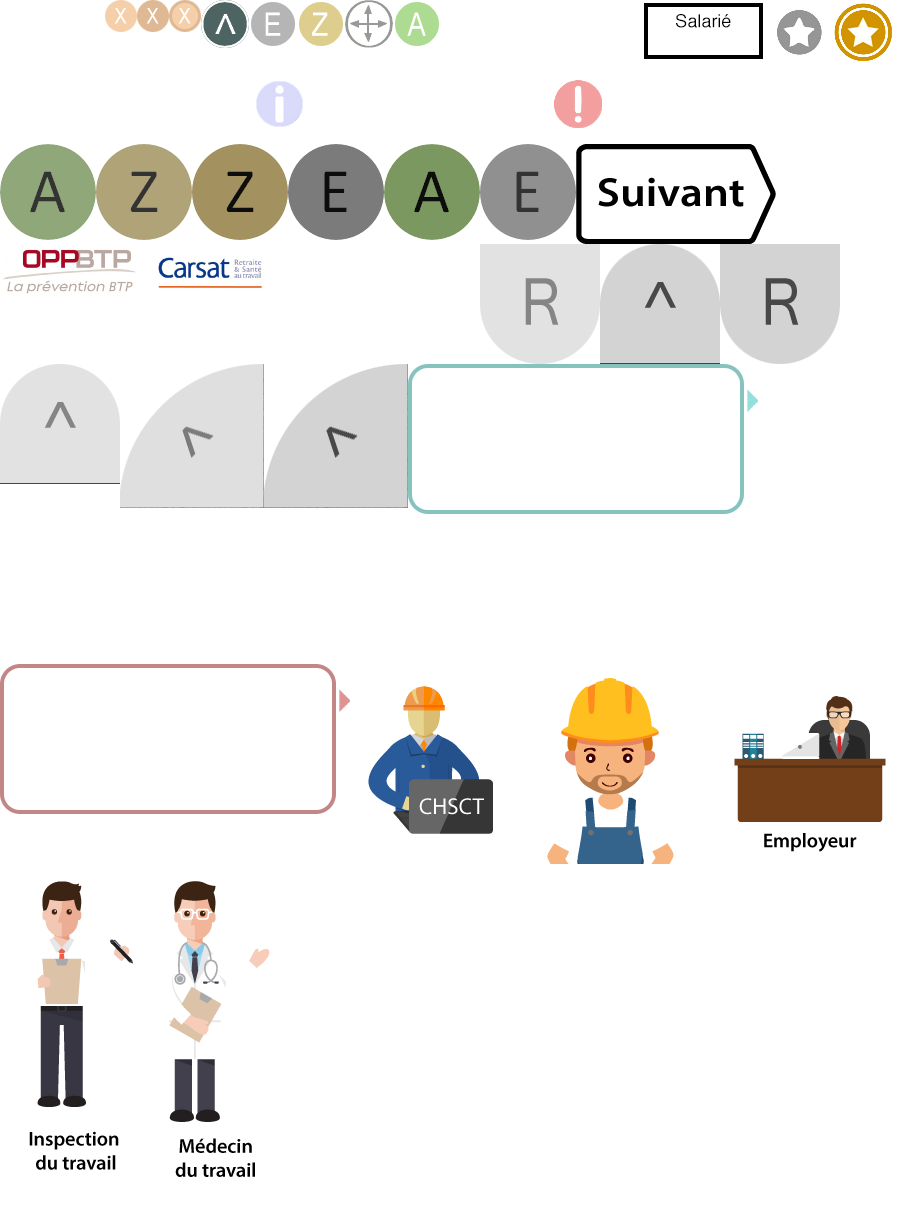
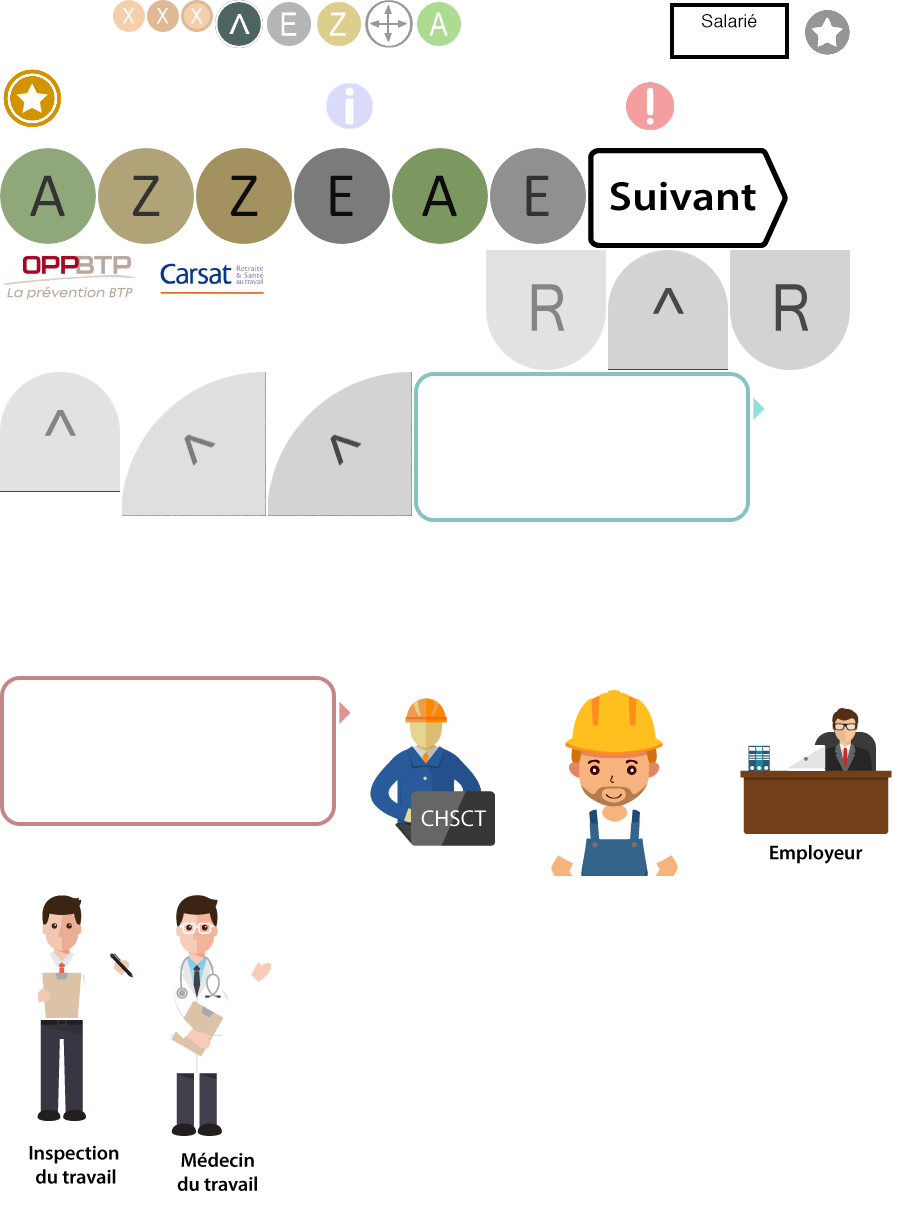
[fix:jeu9] text overlay on sprites fixed and proportional scale for sprites

diff --git a/src/games/9/components/game/objects/Response/ResponseFactory.js b/src/games/9/components/game/objects/Response/ResponseFactory.js
@@ -11,7 +11,6 @@ export default class ResponseFactory extends GameFactory {
 
     constructor(game, items) {
         super(game);
-        // this.game = game;
 
         let width = this.game.width;
         let height = this.game.height;
@@ -25,7 +24,7 @@ export default class ResponseFactory extends GameFactory {
         this.number = itemsNumber;
 
         let xValue = (width / itemsNumber)/2;
-        let y = 220;
+        let y = 250 * this.game.SCALE;
 
         for (let i = 0; i < itemsNumber; i++) {
             let x = i * (2 * xValue) + xValue;
@@ -33,7 +32,6 @@ export default class ResponseFactory extends GameFactory {
         }
 
         let count = 0;
-        // console.log("Factory:");
         for (let item in items) {
             this.add(
                 (new Response(
@@ -46,8 +44,6 @@ export default class ResponseFactory extends GameFactory {
             );
             count++;
         }
-        // console.log(this.children);
-
     }
 
     // destroy() {

diff --git a/src/games/9/components/game/objects/Player/Player.js b/src/games/9/components/game/objects/Player/Player.js
@@ -17,7 +17,8 @@ export default class Player extends BasicGameObject {
     checkOverlap(currentSprite, spriteToOverlap) {
         let boundsA = currentSprite.getBounds(),
             boundsB = spriteToOverlap.getBounds(),
-            overlapHeight = spriteToOverlap.height + 5;
+            overlapHeight = (spriteToOverlap.height / 2 ) + 10;
+        console.log('height: '+ spriteToOverlap.height );
         if (Phaser.Rectangle.intersects(boundsA, boundsB)) {
             currentSprite.position.x = spriteToOverlap.position.x;
             currentSprite.position.y = spriteToOverlap.position.y + overlapHeight;

diff --git a/src/games/9/components/game/objects/Player/PlayerSprite.js b/src/games/9/components/game/objects/Player/PlayerSprite.js
@@ -5,8 +5,8 @@ import Phaser from 'phaser';
 export default class PlayerSprite extends BasicGameSprite {
     constructor(game, x, y, buttonObj) {
         super(game, x, y, `jeu9/player/player`, buttonObj);
-        this.anchor.setTo(0.5);
-        // this.scale.set(0.5);
+        this.anchor.setTo(0.5, 0);
+        this.scale.set(0.75 * this.game.SCALE);
         this.input.enableDrag(false, true);
         this.originalPosition = this.position.clone();
     }

diff --git a/src/games/9/components/game/objects/Response/ResponseSprite.js b/src/games/9/components/game/objects/Response/ResponseSprite.js
@@ -8,6 +8,7 @@ export default class ResponseSprite extends BasicGameSprite {
         super(game, x, y, `jeu9/${link}`, buttonObj);
         this.anchor.setTo(0.5);
         // this.scale.set(0.5);
+        this.scale.set(0.75 * this.game.SCALE);
         this.originalPosition = this.position.clone();
     }
 
